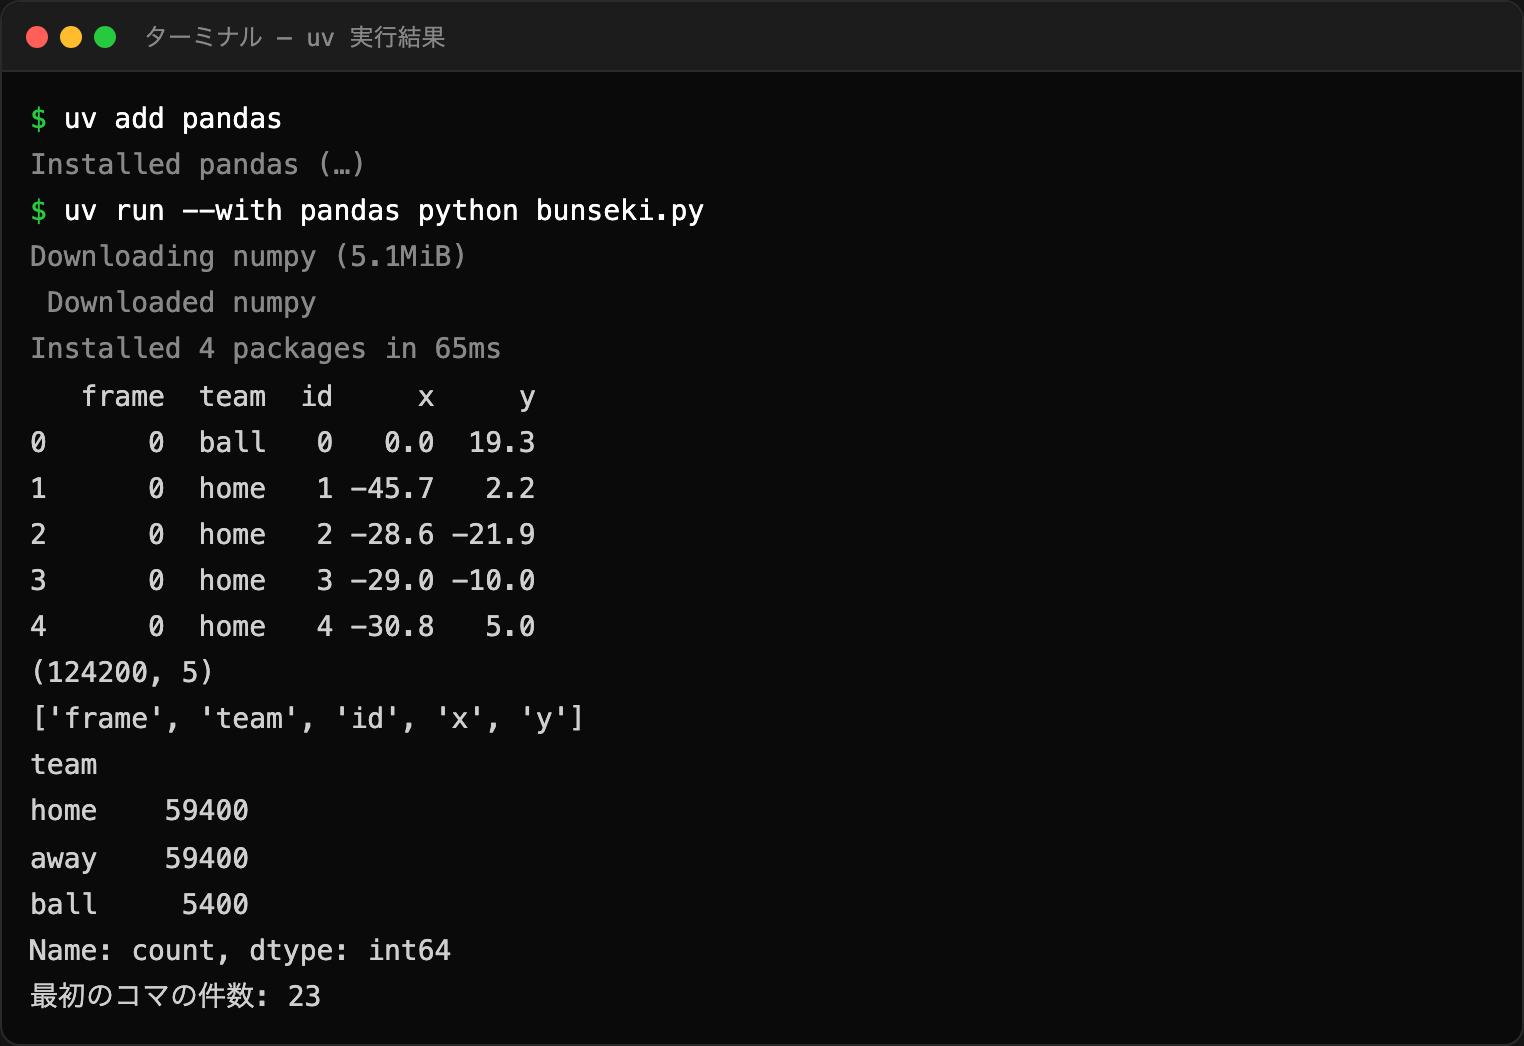
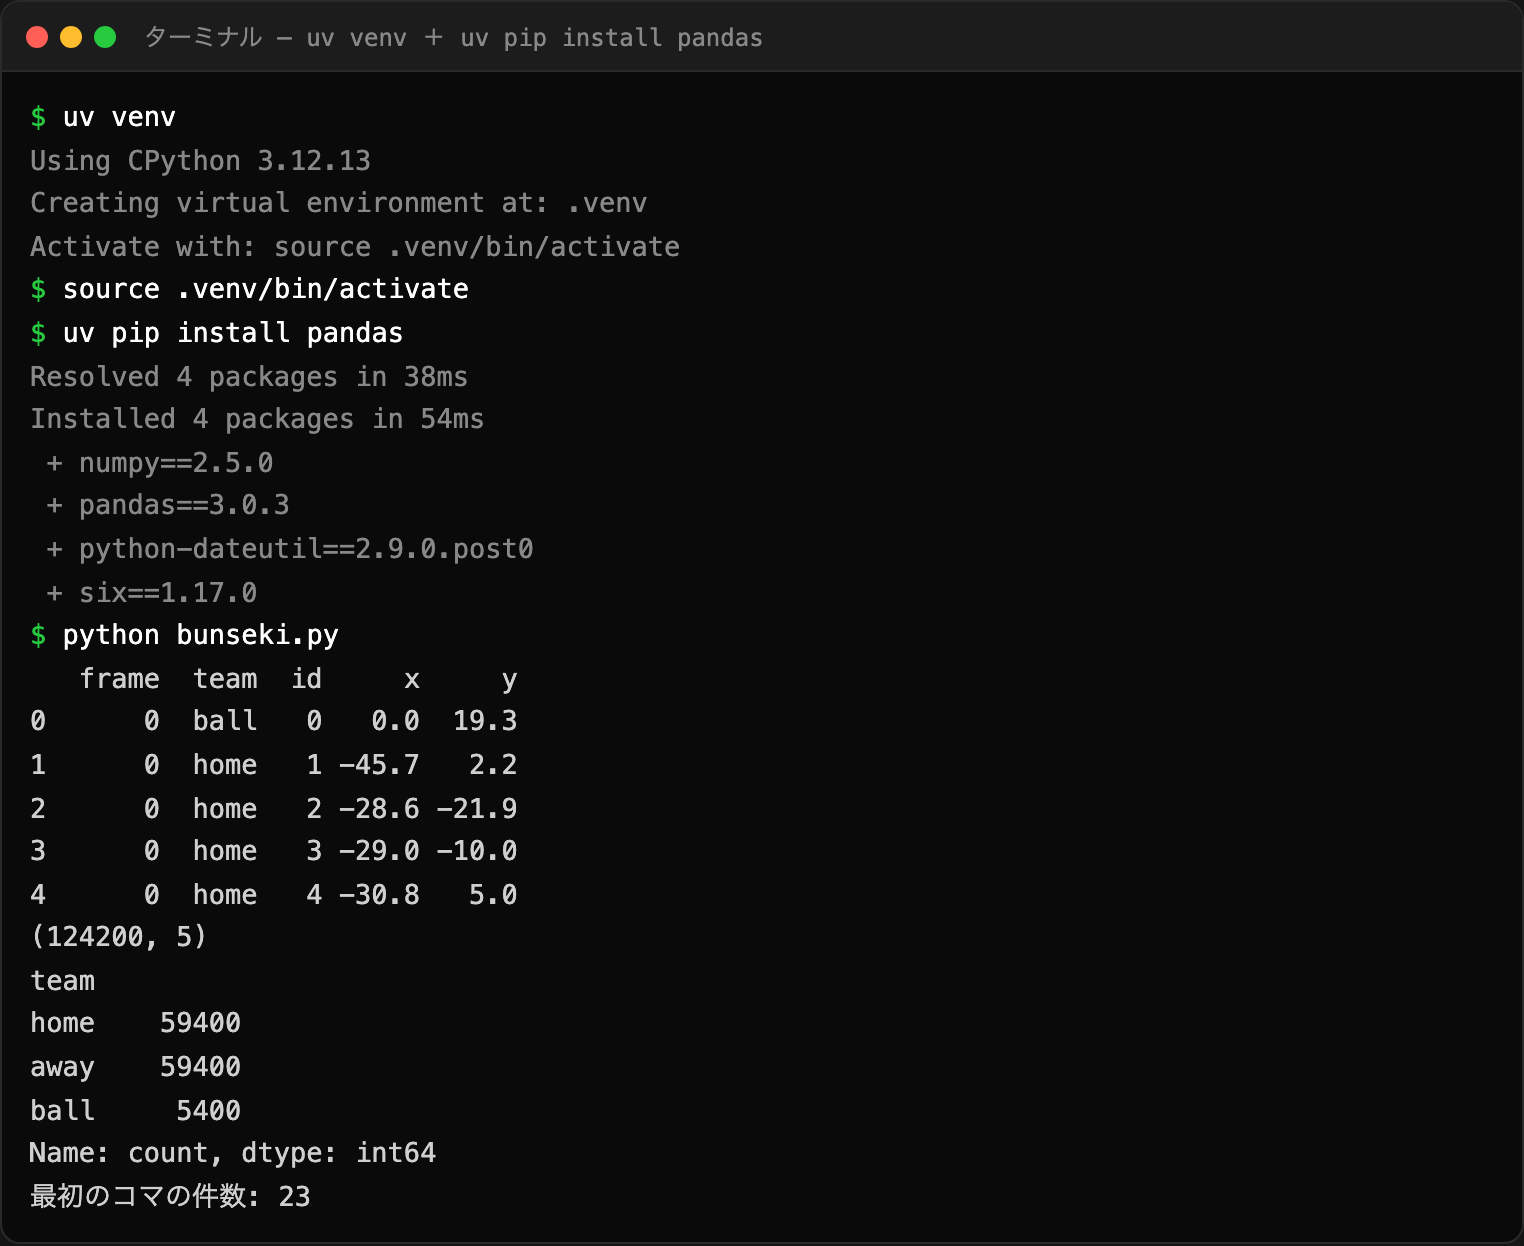
docs(md2): 第3回のpandasインストールを過去資料と同じ uv venv 方式に統一
- uv init/add/run → uv venv + source .venv/bin/activate + uv pip install pandas に変更（第1回のpy5と同一手順）
- uvコマンド早見表・つまずき対処を追加
- 実行結果キャプチャを実コマンド（uv venv→uv pip install pandas→python bunseki.py）で撮り直し

Changed region(s): [[0.0, 0.0, 0.4626, 0.979], [0.0, 0.5507, 0.0308, 0.6119], [0.4626, 0.0306, 0.4934, 0.0612]]

diff --git a/docs/md2_week_3.html b/docs/md2_week_3.html
@@ -1030,40 +1030,53 @@ body { padding-top: 2.2rem; }
     </div>
 
     <div class="card standard">
-      <div class="card-header"><h3>準備：uv で pandas をインストールする</h3></div>
-      <p style="font-size:0.9rem;color:#ccc;margin-bottom:0.5rem"><strong>uv</strong> は、Pythonのパッケージ管理・実行を高速に行う新しい定番ツール。次の手順で pandas を用意する。<span style="color:#999">（インストールせずに試したいなら Google Colab を使ってもよい → 下の囲み）</span></p>
+      <div class="card-header"><h3>準備：uv で pandas をインストールする（第1回の py5 と同じ手順）</h3></div>
+      <p style="font-size:0.9rem;color:#ccc;margin-bottom:0.5rem">これまでの授業で <code>py5</code> を入れたときと<strong>まったく同じ流れ</strong>。作業フォルダを作り、<strong>仮想環境（.venv）</strong>を作って、その中に <code>pandas</code> を入れる。<code>py5</code> の部分が <code>pandas</code> に変わるだけ。<span style="color:#999">（インストール不要で試すなら Google Colab → 下の囲み）</span></p>
 
-      <p style="font-weight:700;color:#76B900;font-size:0.9rem;margin:0.5rem 0 0.2rem">① uv本体を入れる（初回だけ・すでに入っていれば飛ばす）</p>
+      <p style="font-weight:700;color:#76B900;font-size:0.9rem;margin:0.5rem 0 0.2rem">① 作業フォルダを作って移動する</p>
 <pre>Terminal
-<span class="cmt"># Mac / Linux</span>
-curl -LsSf https://astral.sh/uv/install.sh | sh
+mkdir soccer
+cd soccer</pre>
 
-<span class="cmt"># Windows（PowerShell）の場合</span>
-<span class="cmt"># powershell -c "irm https://astral.sh/uv/install.ps1 | iex"</span></pre>
-
-      <p style="font-weight:700;color:#76B900;font-size:0.9rem;margin:0.7rem 0 0.2rem">② 作業フォルダでプロジェクトを作り、pandas を追加する</p>
+      <p style="font-weight:700;color:#76B900;font-size:0.9rem;margin:0.7rem 0 0.2rem">② 仮想環境（.venv）を作る</p>
 <pre>Terminal
-<span class="cmt"># soccer.csv を置いた作業フォルダの中で実行</span>
-uv init            <span class="cmt"># プロジェクトを初期化（pyproject.toml ができる）</span>
-uv add pandas      <span class="cmt"># pandas をインストールして環境に追加</span></pre>
+uv venv</pre>
 
-      <p style="font-weight:700;color:#76B900;font-size:0.9rem;margin:0.7rem 0 0.2rem">③ 分析スクリプト（例 <code>bunseki.py</code>）を実行する</p>
+      <p style="font-weight:700;color:#76B900;font-size:0.9rem;margin:0.7rem 0 0.2rem">③ 仮想環境を有効化する（プロンプトの先頭に <code>(.venv)</code> が出れば成功）</p>
 <pre>Terminal
-uv run python bunseki.py   <span class="cmt"># uvが用意した環境でPythonを実行</span></pre>
+source .venv/bin/activate      <span class="cmt"># Mac / Linux</span>
+<span class="cmt"># .venv\Scripts\activate       # Windows の場合</span></pre>
+
+      <p style="font-weight:700;color:#76B900;font-size:0.9rem;margin:0.7rem 0 0.2rem">④ pandas をインストールする（<code>py5</code> のときと同じ <code>uv pip install</code>）</p>
+<pre>Terminal
+uv pip install pandas</pre>
+
+      <p style="font-weight:700;color:#76B900;font-size:0.9rem;margin:0.7rem 0 0.2rem">⑤ 分析スクリプト（例 <code>bunseki.py</code>）を実行する</p>
+<pre>Terminal
+python bunseki.py</pre>
       <div style="margin-top:0.5rem">
-        <img src="img/md2w3_uv_out.png" alt="uvでpandasを入れてbunseki.pyを実行した実行結果" style="width:100%;max-width:640px;border:1px solid #333;border-radius:10px;display:block">
-        <p style="font-size:0.8rem;color:#999;margin-top:0.3rem">▲ 実行結果（ターミナル）：<code>uv</code> が pandas を用意し、bunseki.py の出力（データの中身）が表示される</p>
+        <img src="img/md2w3_uv_out.png" alt="uv venvで仮想環境を作りuv pip install pandasでpandasを入れて実行した実行結果" style="width:100%;max-width:640px;border:1px solid #333;border-radius:10px;display:block">
+        <p style="font-size:0.8rem;color:#999;margin-top:0.3rem">▲ 実行結果（ターミナル）：<code>uv venv</code> → <code>uv pip install pandas</code>（pandas が入る）→ <code>python bunseki.py</code> でデータの中身が表示される</p>
       </div>
 
-      <div class="callout-tip" style="margin-top:0.6rem">
-        <h4>もっと手軽に（1回きり試すだけなら）</h4>
-        <p style="font-size:0.88rem;margin-bottom:0"><code>uv init</code>／<code>uv add</code> を省いて、<strong>その場だけ</strong> pandas を使って実行できる：</p>
-<pre>Terminal
-uv run --with pandas python bunseki.py   <span class="cmt"># 一時的にpandasを入れて実行</span></pre>
+      <div class="callout-info" style="margin-top:0.6rem">
+        <h4>uv のよく使うコマンド（第1回の復習）</h4>
+        <table style="font-size:0.84rem">
+          <tr><th style="width:44%">コマンド</th><th>意味</th></tr>
+          <tr><td><code>uv venv</code></td><td>仮想環境（.venv）を作る</td></tr>
+          <tr><td><code>source .venv/bin/activate</code></td><td>仮想環境を有効化（Winは <code>.venv\Scripts\activate</code>）</td></tr>
+          <tr><td><code>uv pip install pandas</code></td><td>pandas をインストール（<code>pip install</code> の頭に <code>uv</code>）</td></tr>
+          <tr><td><code>uv pip list</code></td><td>インストール済み一覧（pandas が入ったか確認）</td></tr>
+          <tr><td><code>deactivate</code></td><td>仮想環境を抜ける（<code>(.venv)</code> が消える）</td></tr>
+        </table>
       </div>
-      <div class="callout-info" style="margin-top:0.5rem">
-        <h4>置き場所に注意</h4>
-        <p style="font-size:0.88rem;margin-bottom:0"><code>bunseki.py</code> と <code>soccer.csv</code> は<strong>同じフォルダ</strong>に置く。別の場所だと <code>read_csv('soccer.csv')</code> が見つけられずエラーになる。</p>
+      <div class="callout-warning" style="margin-top:0.5rem">
+        <h4>つまずいたら（第1回と同じ）</h4>
+        <ul class="point-list" style="margin-bottom:0">
+          <li>uv が未インストールなら、まず <code>curl -LsSf https://astral.sh/uv/install.sh | sh</code>（Mac/Linux）で入れる</li>
+          <li>VSCodeで実行するときは、右下や⌘⇧Pの「Python: インタープリターを選択」で <code>.venv/bin/python</code> を選ぶ</li>
+          <li><code>bunseki.py</code> と <code>soccer.csv</code> は<strong>同じフォルダ（soccer/）</strong>に置く。別の場所だと <code>read_csv('soccer.csv')</code> が見つからずエラー</li>
+        </ul>
       </div>
     </div>
 
